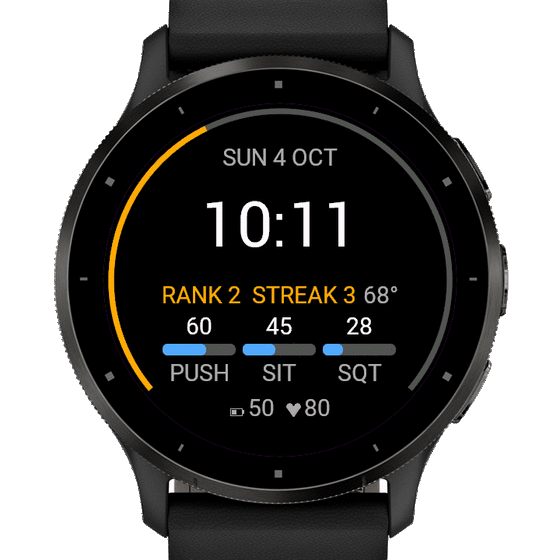
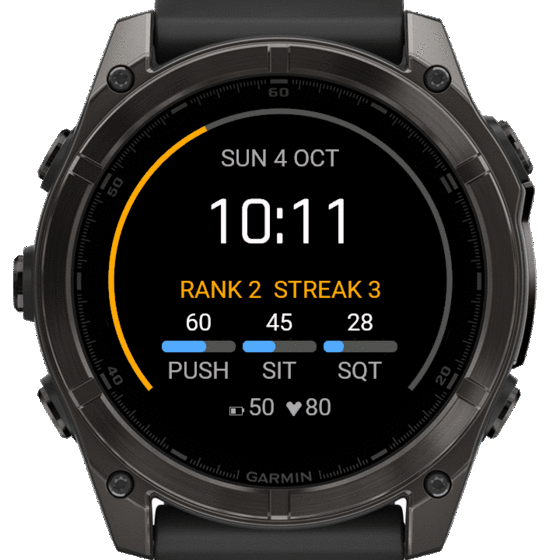
site: review fixes for the tier split
Fresh review of the site diff. HeroFace: Everyday, Goals met and With
HeroSet are now the free face's own captures (no temperature, from
listing-free/screens-framed); Your bars is labelled Pro; HeroSet link on
72 watches (Connect IQ 4.2+ in the manifests, was 66 of the round ones);
Free's settings named (Missions, accent). Two Suns: the Pro captures and
the hero are labelled Pro; the "~" sunrise and midnight-sun lines say
which face does what (spec: Free always estimates, polar lines are Pro).
HeroSet: "adjust", not "correct", in the FAQ heading (release contract);
watchCount 88 after the trim. watch-families.py strips "Music Edition"
(no more "Sq. Edition" in the Venu lists). JSON-LD sameAs lists both
store listings. npm run build: 19 pages; no horizontal overflow at
320-414 px. Not pushed.

Claude-Session: https://claude.ai/code/session_01VBnXC1zGyaFSzHFynsMi4H

diff --git a/site/src/apps/heroface/facts.ts b/site/src/apps/heroface/facts.ts
@@ -9,7 +9,7 @@ export const watchFamilies: [string, string][] = [
   ['epix', 'Gen 2, Pro (Gen 2)'],
   ['Enduro', '3, Enduro'],
   ['MARQ', 'Gen 1, Gen 2'],
-  ['Venu', '2, 2 Plus, 2S, 3, 3S, 4, Mercedes-Benz Collection, Sq, Sq 2, Sq. Edition, Venu, X1'],
+  ['Venu', '2, 2 Plus, 2S, 3, 3S, 4, Mercedes-Benz Collection, Sq, Sq 2, Venu, X1'],
   ['vívoactive', '3, 3 LTE, 3 Mercedes-Benz Collection, 4, 4S, 5, 6'],
   ['Instinct', '2, 2S, 2X Solar, 3 AMOLED, 3 Solar, Crossover AMOLED, E'],
   ['Descent', 'G1, G2, Mk1, Mk2, Mk2 S, Mk3, Mk3i'],
@@ -18,20 +18,20 @@ export const watchFamilies: [string, string][] = [
 ]
 
 // Watches that can also show HeroSet reps: Connect IQ 4.2 and newer.
-export const linkedWatchCount = 66
+export const linkedWatchCount = 72   // Connect IQ 4.2+ products in the manifests (SDK device files), 2026-10-08
 
 export const languages = [
   'English', 'Dansk', 'Deutsch', 'Español', 'Français', 'Italiano', 'Lietuvių', 'Nederlands',
   'Norsk bokmål', 'Polski', 'Português', 'Suomi', 'Svenska', 'Türkçe', 'Українська',
 ]
 
-// Simulator captures of the Pro build, each framed in the watch it ran on: the store listing's set
-// (HeroFace/listing/screens-framed, docker/frame_listing.sh), resized to 560 px in public/heroface/watch/. The HeroSet one
+// Simulator captures, each framed in the watch it ran on: the Free listing's set (HeroFace/listing-free/screens-framed:
+// no temperature) except Your bars, from Pro's (HeroFace/listing), resized to 560 px in public/heroface/watch/. The HeroSet one
 // uses a canned HeroSet value (the simulator runs one app at a time; HeroFace listing/screenshots.md).
 export const screens: Screenshot[] = [
-  { label: 'Everyday', src: '/heroface/watch/everyday.png', watch: 'Forerunner 965' },
-  { label: 'Your bars', src: '/heroface/watch/your-bars.png', watch: 'fēnix 8 Pro' },
-  { label: 'Goals met', src: '/heroface/watch/goals-met.png', watch: 'Forerunner 970' },
-  { label: 'With HeroSet', src: '/heroface/watch/heroset.png', watch: 'Venu 3' },
+  { label: 'Everyday', src: '/heroface/watch/everyday.png', watch: 'Forerunner 265' },
+  { label: 'Your bars (Pro)', src: '/heroface/watch/your-bars.png', watch: 'fēnix 8 Pro' },
+  { label: 'Goals met', src: '/heroface/watch/goals-met.png', watch: 'epix Pro' },
+  { label: 'With HeroSet', src: '/heroface/watch/heroset.png', watch: 'fēnix 8' },
   { label: 'Instinct', src: '/heroface/watch/instinct.png', watch: 'Instinct E' },
 ]

diff --git a/site/src/apps/heroface/Landing.tsx b/site/src/apps/heroface/Landing.tsx
@@ -22,7 +22,7 @@ export function Landing() {
             <HeroActions app={heroface} />
           </div>
           <div className="hero__reps">
-            <WatchShot src="/heroface/watch/everyday.png" alt="HeroFace on a Forerunner 965: the time, the date, the temperature and three goal bars" />
+            <WatchShot src="/heroface/watch/everyday.png" alt="HeroFace on a Forerunner 265: the time, the date and three goal bars" />
           </div>
         </div>
       </section>
@@ -73,7 +73,7 @@ export function Landing() {
         <h2 id="heroset-title" className="band__title">Better with HeroSet.</h2>
         <p className="band__lede">If you also own <a href={appUrl('heroset')}>HeroSet</a>, the bars can show today’s push-ups, sit-ups and squats, the ring becomes your progress to the next rank, and holding the face opens the app. On the {linkedWatchCount} watches that support it, and entirely on the watch. Without HeroSet, nothing is missing.</p>
         <div className="band__figure">
-          <WatchShot src="/heroface/watch/heroset.png" alt="HeroFace with HeroSet on a Venu 3: rank, streak and today's push-ups, sit-ups and squats" />
+          <WatchShot src="/heroface/watch/heroset.png" alt="HeroFace with HeroSet on a fēnix 8: rank, streak and today's push-ups, sit-ups and squats" />
         </div>
       </section>
 

diff --git a/site/src/apps/heroset/Support.tsx b/site/src/apps/heroset/Support.tsx
@@ -39,7 +39,7 @@ export function Support() {
         UP/DOWN. It applies to all three exercises, no phone needed. Lowering it below what you have already done
         completes today straight away.
       </p>
-      <h3>What if I correct today’s count back under my goal?</h3>
+      <h3>What if I adjust today’s count back under my goal?</h3>
       <p>
         Then today is no longer done: your streak goes back to what it was before today counted, in the app, the glance and,
         on watches with Connect IQ 4.2 or later, HeroFace. Save today’s count over the goal again and the day completes again.
@@ -59,7 +59,7 @@ export function Support() {
             Yes, on watches with Connect IQ 4.0 or later, which is most supported models: scroll through your glance
             list (add HeroSet to it if it is not there) to see today’s push-ups, sit-ups and squats and your streak
             without opening the app, and select it to open HeroSet. It is not available on fēnix 6, MARQ Gen 1,
-            Descent MK2 and MK2S, Forerunner 945 LTE, or the original Enduro{instinctLive ? ' (Instinct E and Instinct 3 Solar do have it)' : ''}.
+            Descent MK2 and MK2S, Forerunner 945 LTE, or the original Enduro{instinctLive ? '; Instinct E and Instinct 3 Solar do have it' : ''}.
           </p>
         </>
       )}

diff --git a/site/src/apps/two-suns/facts.ts b/site/src/apps/two-suns/facts.ts
@@ -11,11 +11,11 @@ export const appName = 'Two Suns'
 // Simulator captures, each framed in the watch it ran on: the store listings' sets (TwoSuns/listing*/screens-framed, docker/frame_listing.sh),
 // resized to 560 px in public/two-suns/watch/. Example numbers; the simulator's data is canned.
 export const screens: Screenshot[] = [
-  { label: 'By day', src: '/two-suns/watch/day.png', watch: 'fēnix 8 Pro' },
-  { label: 'Golden hour', src: '/two-suns/watch/golden-hour.png', watch: 'epix Pro' },
-  { label: 'After sunset', src: '/two-suns/watch/evening.png', watch: 'Venu 3' },
+  { label: 'By day (Pro)', src: '/two-suns/watch/day.png', watch: 'fēnix 8 Pro' },
+  { label: 'Golden hour (Pro)', src: '/two-suns/watch/golden-hour.png', watch: 'epix Pro' },
+  { label: 'After sunset (Pro)', src: '/two-suns/watch/evening.png', watch: 'Venu 3' },
   { label: 'Two Suns (free)', src: '/two-suns/watch/free.png', watch: 'Forerunner 970' },
-  { label: 'Instinct', src: '/two-suns/watch/instinct.png', watch: 'Instinct E' },
+  { label: 'Instinct (Pro)', src: '/two-suns/watch/instinct.png', watch: 'Instinct E' },
 ]
 
 // Generated from the manifests by site/scripts/watch-families.py (Two Suns Free and Pro manifests); re-run it when the products change. The store's

diff --git a/site/src/apps/two-suns/Support.tsx b/site/src/apps/two-suns/Support.tsx
@@ -28,9 +28,10 @@ export function Support() {
       <h2>What the bottom line says</h2>
       <p>
         By day it says how much daylight is left (“8h 41m of daylight”). Before sunrise and after sunset it says when the sun
-        comes up (“Sunrise 06:41”). A “~” (“Sunrise ~06:41”) means the time is today’s, used as an estimate for tomorrow
-        because the watch does not know where you are. In midnight sun and polar night it says “Sun stays up today” or “Sun
-        stays down today”. On small screens the sentence gets shorter (“Rise 06:41”).
+        comes up (“Sunrise 06:41”). A “~” (“Sunrise ~06:41”) means today’s sunrise, used as an estimate for tomorrow:
+        always after sunset on Two Suns, which reads no location, and on Two Suns Pro only while it has no place yet (with a
+        place, Pro works out tomorrow’s own sunrise). In midnight sun and polar night Two Suns Pro says “Sun stays up today”
+        or “Sun stays down today”. On small screens the sentence gets shorter (“Rise 06:41”).
       </p>
 
       <h2>Common questions</h2>

diff --git a/site/src/apps/heroset/facts.ts b/site/src/apps/heroset/facts.ts
@@ -9,8 +9,8 @@ export const instinctLive = true   // HeroSet 1.3.0 (Instinct) live since 2026-1
 // device tab is the final word: a paid app is sold only on Garmin's paid-app list.
 // Trimmed by hand after generating: Instinct 2, 2S, 2X Solar and Descent G1 are in the package but not on Garmin's paid-app
 // list, so a paid HeroSet is not sold on them and this paid page never names them (HeroSet docs/release-contract.md
-// "Paid vs free reach", ROADMAP 7.8). Re-trim after every regeneration.
-export const watchCount = 92
+// "Paid vs free reach", ROADMAP 7.8). Re-trim after every regeneration: 92 in the manifest, 88 named here.
+export const watchCount = 88
 export const watchFamilies: [string, string][] = [
   ['Forerunner', '70, 165, 170, 255, 255s, 265, 265s, 570, 945 LTE, 955, 965, 970'],
   ['fēnix', '6, 6 Pro, 6S, 6S Pro, 6X Pro, 7, 7 Pro, 7S, 7S Pro, 7X, 7X Pro, 8, 8 Pro, 8 Solar, 9, 9 Pro, 9 Pro Solar, E'],

diff --git a/site/src/apps/heroface/Support.tsx b/site/src/apps/heroface/Support.tsx
@@ -17,7 +17,7 @@ export function Support() {
         In the Garmin Connect app, open your watch, then Connect IQ Apps → Watch Faces → HeroFace Pro → Settings. Each of
         the three bars can be set to steps, calories, intensity minutes, distance, floors or the move bar, or left on
         Automatic. You can also pick the accent colour and turn seconds and the temperature on or off. In HeroFace, the
-        free face, the bars are always on Automatic and the accent colour is the setting to change.
+        free face, the bars are always on Automatic; Missions (HeroSet or everyday goals) and the accent colour are the settings.
       </p>
       <Note>
         Automatic picks the first thing your watch actually measures. A watch with no barometer has no floor count, so

diff --git a/site/src/apps/two-suns/Landing.tsx b/site/src/apps/two-suns/Landing.tsx
@@ -21,8 +21,8 @@ export function Landing() {
             <HeroActions app={twoSuns} />
           </div>
           <div className="hero__reps">
-            <WatchShot src="/two-suns/watch/day.png" alt="Two Suns on a fēnix 8 Pro: the 24-hour sun ring, the time, Body Battery 59 with its curve, 7h 22m of daylight" />
-            <p>A simulator capture with example numbers.</p>
+            <WatchShot src="/two-suns/watch/day.png" alt="Two Suns Pro on a fēnix 8 Pro: the 24-hour sun ring, the time, Body Battery 59 with its curve, 7h 22m of daylight" />
+            <p>Two Suns Pro: a simulator capture with example numbers.</p>
           </div>
         </div>
       </section>

diff --git a/site/src/apps/days-to-go/facts.ts b/site/src/apps/days-to-go/facts.ts
@@ -22,7 +22,7 @@ export const watchFamilies: [string, string][] = [
   ['epix', 'Gen 2, Pro (Gen 2)'],
   ['Enduro', '3, Enduro'],
   ['MARQ', 'Gen 1, Gen 2'],
-  ['Venu', '2, 2 Plus, 2S, 3, 3S, 4, Mercedes-Benz Collection, Sq, Sq 2, Sq. Edition, Venu, X1'],
+  ['Venu', '2, 2 Plus, 2S, 3, 3S, 4, Mercedes-Benz Collection, Sq, Sq 2, Venu, X1'],
   ['vívoactive', '3, 3 LTE, 3 Mercedes-Benz Collection, 4, 4S, 5, 6'],
   ['Instinct', '2, 2S, 2X Solar, 3 AMOLED, 3 Solar, Crossover AMOLED, E'],
   ['Descent', 'G1, G2, Mk1, Mk2, Mk2 S, Mk3, Mk3i'],

diff --git a/site/src/entry-server.tsx b/site/src/entry-server.tsx
@@ -18,7 +18,7 @@ const softwareApplication = (app: App, url: string) => ({
   applicationCategory: 'HealthApplication',
   operatingSystem: 'Garmin Connect IQ',
   url: studio.origin + url,
-  ...(app.storeUrl ? { sameAs: app.storeUrl } : {}),
+  ...(app.storeUrl ? { sameAs: app.freeStoreUrl ? [app.freeStoreUrl, app.storeUrl] : app.storeUrl } : {}),
 })
 
 const table = new Map<string, Route>([

diff --git a/site/scripts/watch-families.py b/site/scripts/watch-families.py
@@ -34,7 +34,7 @@ def family_of(n):
 def tidy(rest):
     """'8 47mm / 51mm / tactix 8' -> '8'; '165 Music' -> '165'; '(Gen 2) Athlete / ...' -> 'Gen 2'; one name per model line."""
     rest = rest.split(" / ")[0]
-    rest = re.sub(r"\s*-\s*Solar Edition.*|\s*\(no Wi-Fi\)|\s+Music\b|\s*\d+mm\b|\s+MicroLED", "", rest)
+    rest = re.sub(r"\s*-\s*Solar Edition.*|\s*\(no Wi-Fi\)|\.?\s+Music Edition\b|\s+Music\b|\s*\d+mm\b|\s+MicroLED", "", rest)
     rest = re.sub(r"^\((Gen \d)\).*", r"\1", rest)
     rest = re.sub(r"\((Gen \d)\)", r"(\1)", rest).strip()
     return rest

diff --git a/site/DESIGN.md b/site/DESIGN.md
@@ -223,7 +223,7 @@ Blunt and inverted.
 - **Shape:** square corners (0), min height 3rem.
 - **Store action:** the field's ink as background with the field color as text, 700 weight, 0.75rem 1.4rem padding.
 - **Hover:** lifts 2px over 180ms on the program ease-out; no color change.
-- **Two tiers:** an app with a free twin (`freeStoreUrl`) shows two equal store buttons, "Get <Name>, free" then "Get <Name> Pro", and its landing page has a "Free or Pro." band (what the free face has, what Pro adds, a store link each). Never "upgrade", "unlock" or "try free first".
+- **Two tiers:** an app with a free twin (`freeStoreUrl`) shows two store buttons, "Get <Name>, free" then "Get <Name> Pro", and its landing page has a "Free or Pro." band (what the free face has, what Pro adds, a store link each). Never "upgrade", "unlock" or "try free first".
 - **Status plate:** when the store link is absent, the same box renders as a 2px dashed field-ink outline reading "Coming soon". It is a state, not a button, and it is not clickable.
 - **Secondary action:** a plain underlined field-ink link beside it, 600 weight.
 
